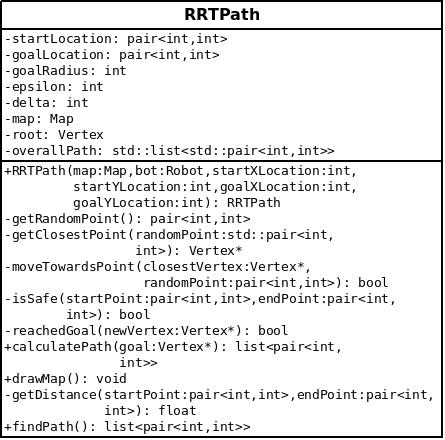
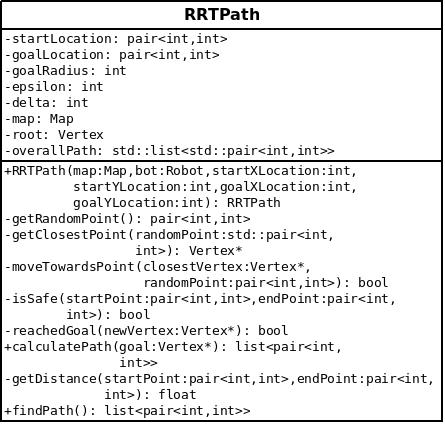
Decided to remove visualization feature because it's really just gold plating.

Changed region(s): [[0.0, 0.0, 0.9933, 1.0]]

diff --git a/app/rrt_path.cpp b/app/rrt_path.cpp
@@ -199,12 +199,3 @@ bool RRTPath::isSafe(std::pair<int, int> startPoint,
 
   return true;
 }
-
-void RRTPath::drawMap() {
-  /**
-   * TODO
-   *    use matplotlib to draw a 2D graph of the map and obstacles, the RRT,
-   *    and the path taken from start to goal
-   */
-
-}
